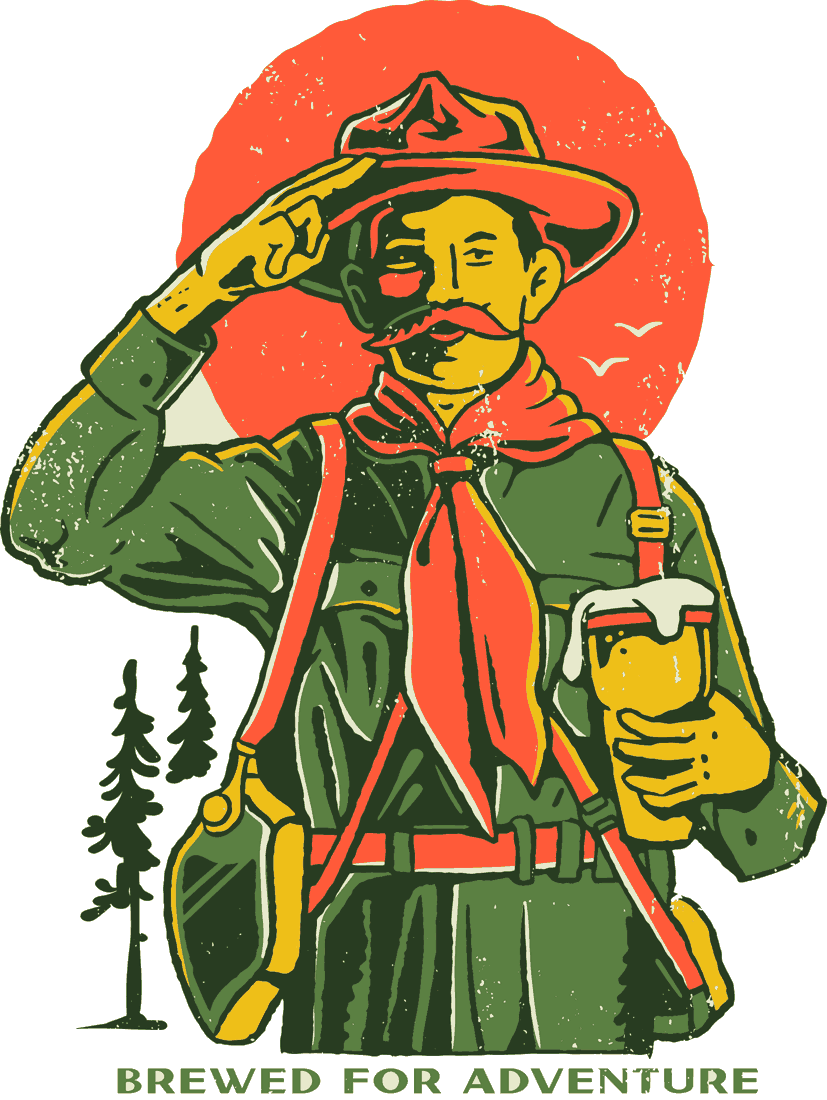
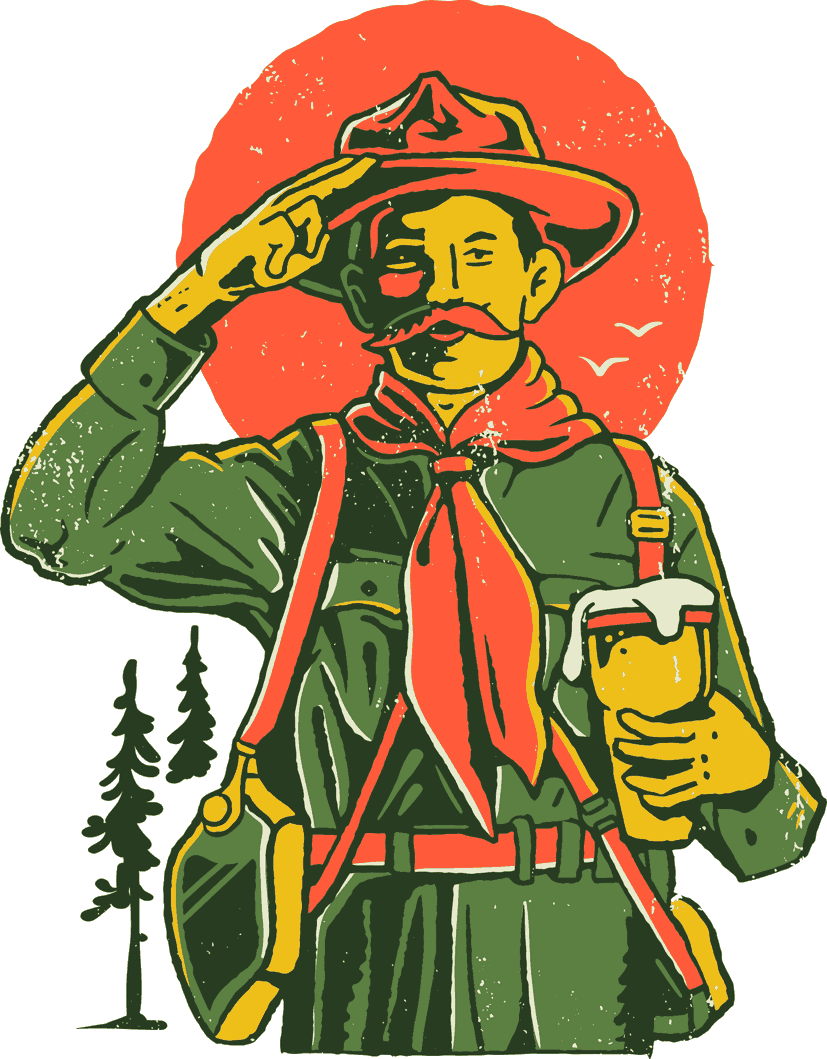
board: build from src (26e3f9c) [skip ci]

diff --git a/platt-park-live-board-v4.html b/platt-park-live-board-v4.html
@@ -1,4 +1,4 @@
-<!DOCTYPE html><!-- built 2026-09-20T01:27Z from src @ 5c08410 - GENERATED FILE: edit src/, never this -->
+<!DOCTYPE html><!-- built 2026-09-20T01:32Z from src @ 26e3f9c - GENERATED FILE: edit src/, never this -->
 <html lang="en">
 <head>
 <meta charset="UTF-8">
@@ -372,6 +372,12 @@ body::after{content:'';position:fixed;inset:0;pointer-events:none;z-index:60;
 .wireStrip .wi{padding-right:80px;font-size:22px;font-weight:600}
 @keyframes wcrawl{to{transform:translateX(-50%)}}
 </style>
+<style>/* the ranger's tagline is real type now, not pixels baked into the figure (see tools/fixart.py) */
+.ranger{flex-direction:column;align-items:center;justify-content:flex-end;gap:2px}
+.ranger .cap{font-family:'Barlow',sans-serif;font-weight:700;font-size:10.5px;letter-spacing:3px;color:#5a8142;text-transform:uppercase;white-space:nowrap;opacity:.9}
+body.night .ranger .cap{color:#8fa27a}
+.c-cap{font-family:'Barlow',sans-serif;font-weight:700;font-size:15px;letter-spacing:6px;color:#5a8142;text-transform:uppercase;margin-top:-8px}
+.curtain.night .c-cap{color:#8fa27a}</style>
 </head>
 <body>
 
@@ -407,7 +413,7 @@ body::after{content:'';position:fixed;inset:0;pointer-events:none;z-index:60;
     <div class="s-item frozen"><span class="s-name">Frozen Cocktails</span><div class="s-row"><span class="s-flavor" id="sFlavor">Mexican Firing Squad<br>Transfusion</span><span class="s-price">$12</span></div></div>
     <div class="s-foot">Full bar · NA options too</div>
       </div>
-  <div class="ranger"><img src="img/ranger.png" alt=""></div>
+  <div class="ranger"><img src="img/ranger.png" alt=""><span class="cap">Brewed for adventure</span></div>
 </div>
 </div>
 
@@ -420,6 +426,7 @@ body::after{content:'';position:fixed;inset:0;pointer-events:none;z-index:60;
 </div>
 <div class="curtain" id="curtain">
   <img class="c-ranger" id="cRanger" alt="">
+  <div class="c-cap">Brewed for adventure</div>
   <img class="c-wm" id="cWm" alt="">
   <div class="c-line" id="cLine"></div>
   <div class="c-sub" id="cSub"></div>
